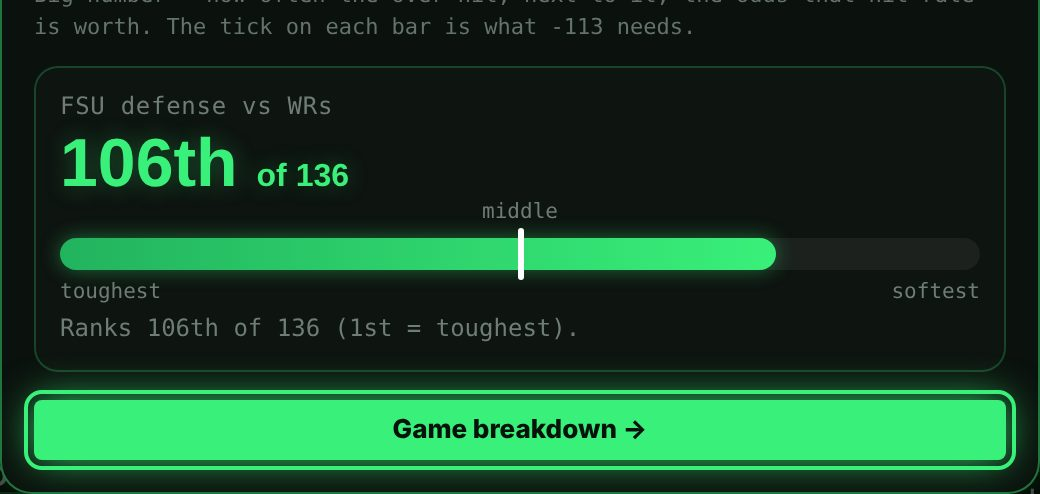
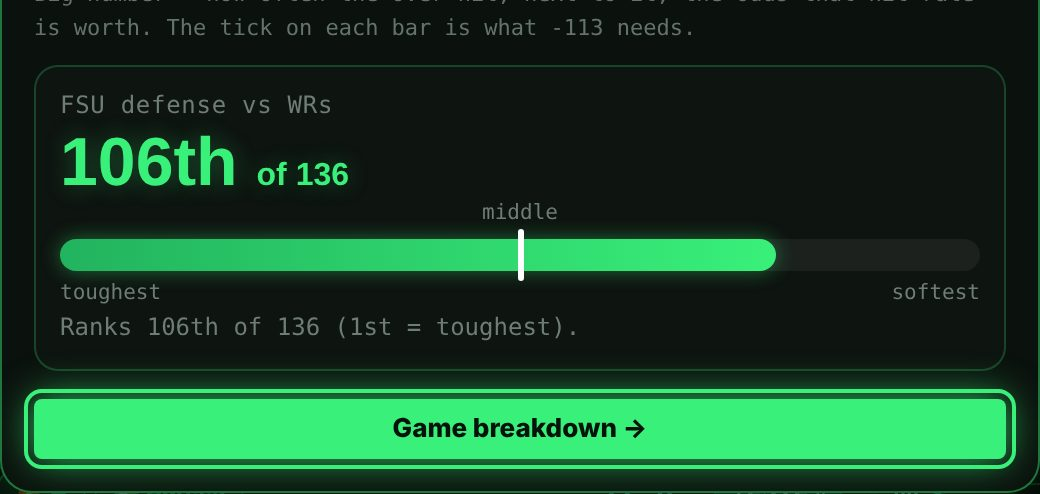
How-To: explain the breakdown check; refresh walkthrough screenshots
Claude-Session: https://claude.ai/code/session_01EGinrr8E2L4ydUghiJi9Cp

diff --git a/docs/how-to.html b/docs/how-to.html
@@ -195,6 +195,18 @@ th { font-size: 10.5px; font-weight: 700; text-transform: uppercase; letter-spac
   </table></div>
   <p>The grade combines two things: how good the matchup is, and whether the line has moved our way since the play was flagged. It's a small sample and gets re-checked as more weeks are graded.</p>
 
+  <h3>Breakdown check (on every official prop)</h3>
+  <p>Next to the play grade, each official prop shows whether the Game breakdown and the injury report back it up:</p>
+  <div class="tbl"><table>
+    <tr><th>Check</th><th>What it means</th><th>What to do</th></tr>
+    <tr><td><span class="tag g">✅ Agrees</span></td><td>His unit has the matchup edge, and nobody important is in doubt.</td><td>Normal checks, then bet it.</td></tr>
+    <tr><td><span class="tag a">⚠ Check first</span></td><td>Someone who matters is questionable (him or his QB), or teammates out cut against the pick.</td><td>Read the reason. Wait for the news before betting.</td></tr>
+    <tr><td><span class="tag b">↔ Mixed</span></td><td>Injuries are clear, but the unit matchup leans the other way.</td><td>Fine to bet. The play rests on his role, not the matchup.</td></tr>
+    <tr><td><span class="tag r">🚫 Conflicts</span></td><td>The injury news works against the play, like his starting QB being out on an over.</td><td>Look hard, or skip it.</td></tr>
+    <tr><td><span class="tag">➖ No lean</span></td><td>The breakdown is about even.</td><td>The play rests on the model's number.</td></tr>
+  </table></div>
+  <p>It isn't part of the A/B/C grade yet. We're tracking it to see whether it really sorts winners from losers.</p>
+
   <div class="panel amber">
     <h3>An A is where you start, not a green light</h3>
     <p>The grade comes from numbers. Numbers can't see a starter ruled out this morning, a backup QB, or a coach who plans to sit guys. An A tells you the play is worth checking. The checks in section 4 (and the walkthrough in section 5) tell you whether to bet it.</p>
@@ -237,9 +249,9 @@ th { font-size: 10.5px; font-weight: 700; text-transform: uppercase; letter-spac
   <h3>A prop: checking an 🔥 A</h3>
   <ol class="walk">
     <li><b>Click the player's name.</b> On Player Props, every name is a link. This one is Cataurus Hicks, an 🔥 A on his receiving yards over.
-      <figure class="shot"><a href="img/howto/props-table.jpg" target="_blank" rel="noopener"><img src="img/howto/props-table.jpg" alt="Player Props table with the player's name highlighted" loading="lazy" width="1900" height="720"></a><figcaption>Click the name, not the row.</figcaption></figure></li>
-    <li><b>Read the player card.</b> The top has the bet, the play grade and the matchup. The <b>game by game</b> bars show every game this season against today's line: green means the over hit, and the dashed line is the line.
-      <figure class="shot narrow"><a href="img/howto/player-card.jpg" target="_blank" rel="noopener"><img src="img/howto/player-card.jpg" alt="Player card with play grade, projection, season average and game-by-game bars" loading="lazy" width="1040" height="1634"></a><figcaption>Five-second read: are most bars clearly over the dashed line?</figcaption></figure>
+      <figure class="shot"><a href="img/howto/props-table.jpg" target="_blank" rel="noopener"><img src="img/howto/props-table.jpg" alt="Player Props table with the player's name highlighted" loading="lazy" width="1900" height="740"></a><figcaption>Click the name, not the row.</figcaption></figure></li>
+    <li><b>Read the player card.</b> The top has the bet, the play grade and the matchup. Right under it is the <b>breakdown check</b>: for Hicks it says ⚠ Check first, because PITT's starting QB is questionable. The <b>game by game</b> bars show every game this season against today's line: green means the over hit, and the dashed line is the line.
+      <figure class="shot narrow"><a href="img/howto/player-card.jpg" target="_blank" rel="noopener"><img src="img/howto/player-card.jpg" alt="Player card with play grade, breakdown check, projection, season average and game-by-game bars" loading="lazy" width="1040" height="2020"></a><figcaption>Read the breakdown check first, then the bars: are most of them clearly over the dashed line?</figcaption></figure>
       <div class="look"><b>What to look for:</b> lots of bars well past the line is a good sign. Watch for an average propped up by one or two monster games. Hicks averages 73, but two big games (135, 149) pull that up. His typical game is in the 60s, and two of his "overs" (50, 49) cleared by a yard or two. Still a good play, just not as safe as the average makes it look.</div></li>
     <li><b>Scroll to the bottom and hit Game breakdown.</b>
       <figure class="shot narrow"><a href="img/howto/card-breakdown-btn.jpg" target="_blank" rel="noopener"><img src="img/howto/card-breakdown-btn.jpg" alt="Game breakdown button at the bottom of the player card" loading="lazy" width="1040" height="494"></a></figure></li>
